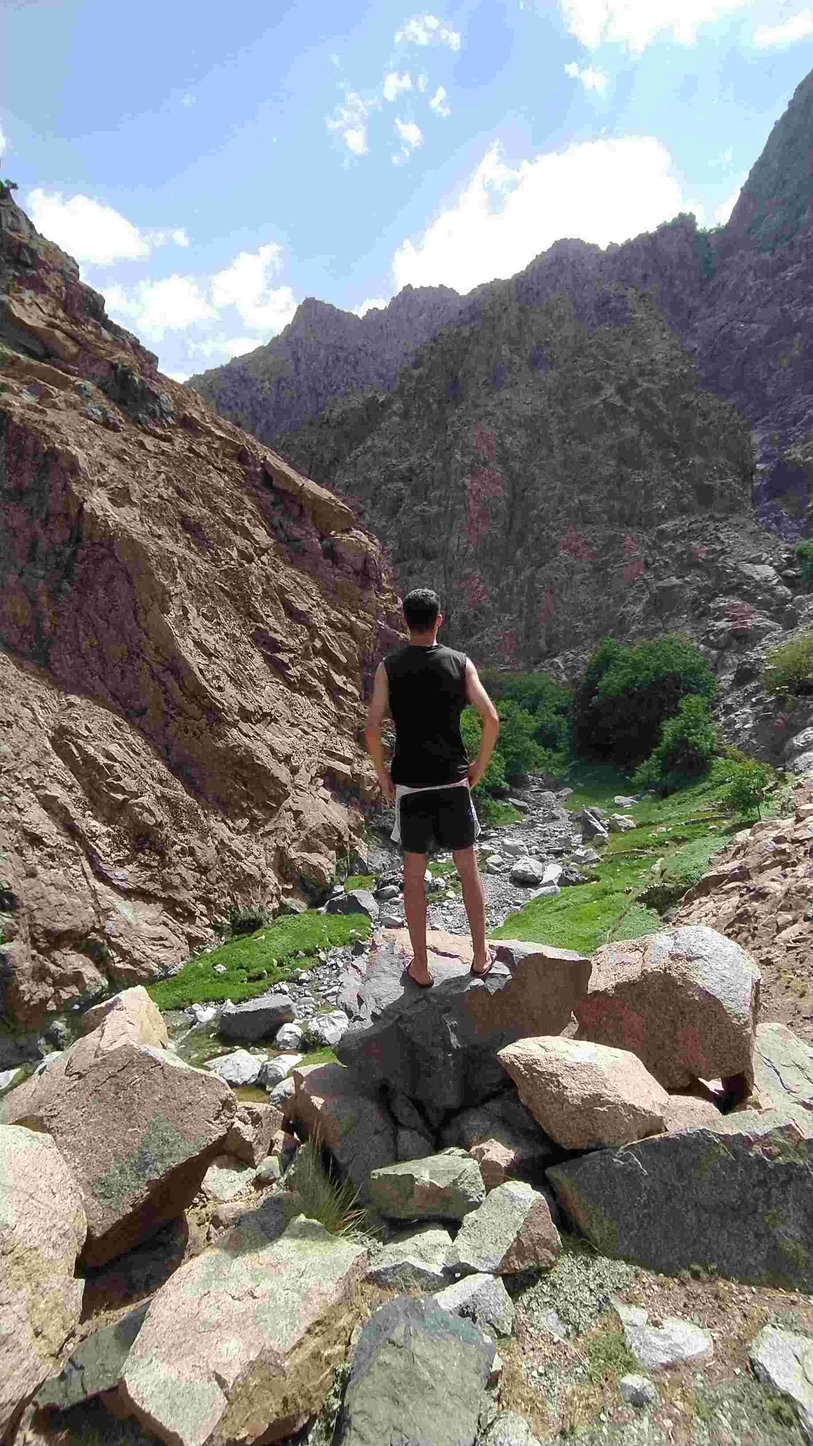
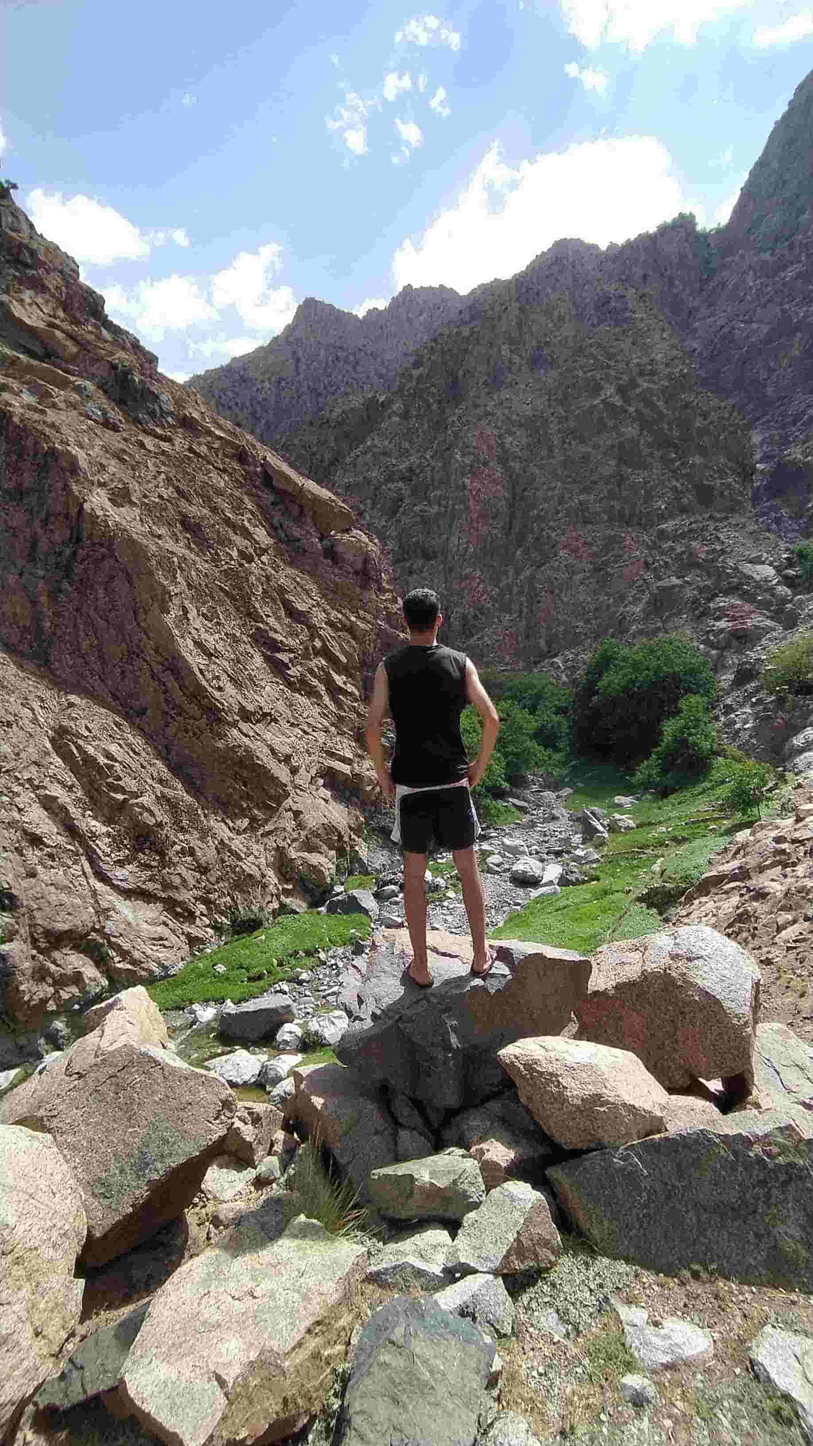
feat: Refactor layout and padding across various components for improved consistency and visual appeal

diff --git a/components/global/homepage/HomepageSection.tsx b/components/global/homepage/HomepageSection.tsx
@@ -71,7 +71,7 @@ export default function HomepageSection({
     if (section.id === 'about') {
       const text = descriptionOverride ?? profile.bio;
       return (
-        <div className="flex flex-col gap-4 max-w-[800px]">
+        <div className="flex flex-col gap-3 md:gap-4 max-w-[800px]">
           <motion.p
             className="text-justify text-lg"
             initial={{ opacity: 0, y: 24 }}
@@ -109,7 +109,7 @@ export default function HomepageSection({
 
     if (section.id === 'contact') {
       return (
-        <div className="flex flex-col gap-6 max-w-[800px]">
+        <div className="flex flex-col gap-4 md:gap-6 max-w-[800px]">
           {descriptionOverride && (
             <motion.p
               className="text-justify text-lg text-muted-foreground"
@@ -269,10 +269,10 @@ export default function HomepageSection({
   })();
 
   return (
-    <div className="flex flex-row gap-6 items-stretch min-h-0">
+    <div className="flex flex-row gap-3 md:gap-6 items-stretch min-h-0">
       <IconWithVerticalLine icon={iconName} iconSize={28} theme={section.theme} />
-      <div className="flex flex-col gap-5 min-w-0 flex-1 pb-1">
-        <div className="flex flex-col gap-2">
+      <div className="flex flex-col gap-3 md:gap-5 min-w-0 flex-1 pb-1">
+        <div className="flex flex-col gap-1.5 md:gap-2">
           <CapitalizedText
             text={section.title}
             cap_color={titleCap}

diff --git a/components/global/IconWithVerticalLine.tsx b/components/global/IconWithVerticalLine.tsx
@@ -78,7 +78,7 @@ const IconWithVerticalLine = ({
   const haloOpacity = useTransform(progress, [0, 0.35, 1], [0.2, 0.9, 0.3]);
 
   return (
-    <div ref={rootRef} className="relative w-14 shrink-0 self-stretch min-h-0">
+    <div ref={rootRef} className="relative w-10 md:w-14 shrink-0 self-stretch min-h-0">
       <div className="relative flex flex-col items-center">
         <motion.div
           className="relative flex items-center justify-center shrink-0"
@@ -111,14 +111,14 @@ const IconWithVerticalLine = ({
           </div>
         </motion.div>
       </div>
-      {/* Base line + scroll fill */}
+      {/* Base line + scroll fill — top matches icon column height (w-10 → 2.5rem, w-14 → 3.5rem) */}
       <div
-        className="absolute left-1/2 top-14 -translate-x-1/2 bottom-0 w-1 rounded-full min-h-[2rem] bg-muted/40"
+        className="absolute left-1/2 top-10 md:top-14 -translate-x-1/2 bottom-0 w-1 rounded-full min-h-[2rem] bg-muted/40"
         aria-hidden
       />
       <motion.div
         className={cn(
-          'absolute left-1/2 top-14 -translate-x-1/2 bottom-0 w-1 rounded-full min-h-[2rem] origin-top overflow-hidden',
+          'absolute left-1/2 top-10 md:top-14 -translate-x-1/2 bottom-0 w-1 rounded-full min-h-[2rem] origin-top overflow-hidden',
           THEME_LINE_CLASSES[theme]
         )}
         style={{ scaleY: progress }}

diff --git a/app/page.tsx b/app/page.tsx
@@ -19,7 +19,7 @@ export default function Home() {
         <section id="hero" className="scroll-mt-24">
           <Header />
         </section>
-        <div className="mx-auto max-w-5xl px-4 py-12 md:px-8 md:py-16">
+        <div className="mx-auto max-w-5xl px-3 py-8 sm:px-4 md:px-8 md:py-16">
           {HOMEPAGE_SECTIONS.map((section) => {
             const dataKey = section.dataKey;
             const raw =
@@ -35,7 +35,7 @@ export default function Home() {
               <section
                 key={section.id}
                 id={section.id}
-                className="scroll-mt-24 pb-12 md:pb-16"
+                className="scroll-mt-24 pb-8 md:pb-16"
               >
                 <HomepageSection
                   section={section}

diff --git a/components/global/ExperieceCard.tsx b/components/global/ExperieceCard.tsx
@@ -32,7 +32,7 @@ const ExperienceCard = ({
   <Link href={`/experience/${slug}`} className="block w-full max-w-xl group">
     <Card
       className={cn(
-        'w-full rounded-xl border border-border bg-card p-5',
+        'w-full rounded-xl border border-border bg-card p-4 md:p-5',
         'shadow-sm transition-all duration-200',
         'hover:shadow-md hover:border-primary/30',
         'text-left cursor-pointer'

diff --git a/components/global/Services.tsx b/components/global/Services.tsx
@@ -13,7 +13,7 @@ export interface Service {
 const Services = ({ title, description, icon }: Service) => (
   <Card
     className={cn(
-      'w-full max-w-sm rounded-xl border border-border bg-card p-5',
+      'w-full max-w-sm rounded-xl border border-border bg-card p-4 md:p-5',
       'shadow-sm transition-shadow hover:shadow-md',
       'text-left'
     )}

diff --git a/components/global/FunFact.tsx b/components/global/FunFact.tsx
@@ -12,7 +12,7 @@ export interface FunFact {
 const FunFacts = ({ text, icon }: FunFact) => (
   <Card
     className={cn(
-      'w-full max-w-xs rounded-xl border border-border bg-card p-5',
+      'w-full max-w-xs rounded-xl border border-border bg-card p-4 md:p-5',
       'shadow-sm transition-shadow hover:shadow-md',
       'text-left'
     )}

diff --git a/components/global/EducationCard.tsx b/components/global/EducationCard.tsx
@@ -33,7 +33,7 @@ const EducationCard = ({
 }: EducationProps) => (
   <Card
     className={cn(
-      'w-full max-w-xl rounded-xl border border-border bg-card p-5',
+      'w-full max-w-xl rounded-xl border border-border bg-card p-4 md:p-5',
       'shadow-sm transition-shadow hover:shadow-md',
       'text-left'
     )}
